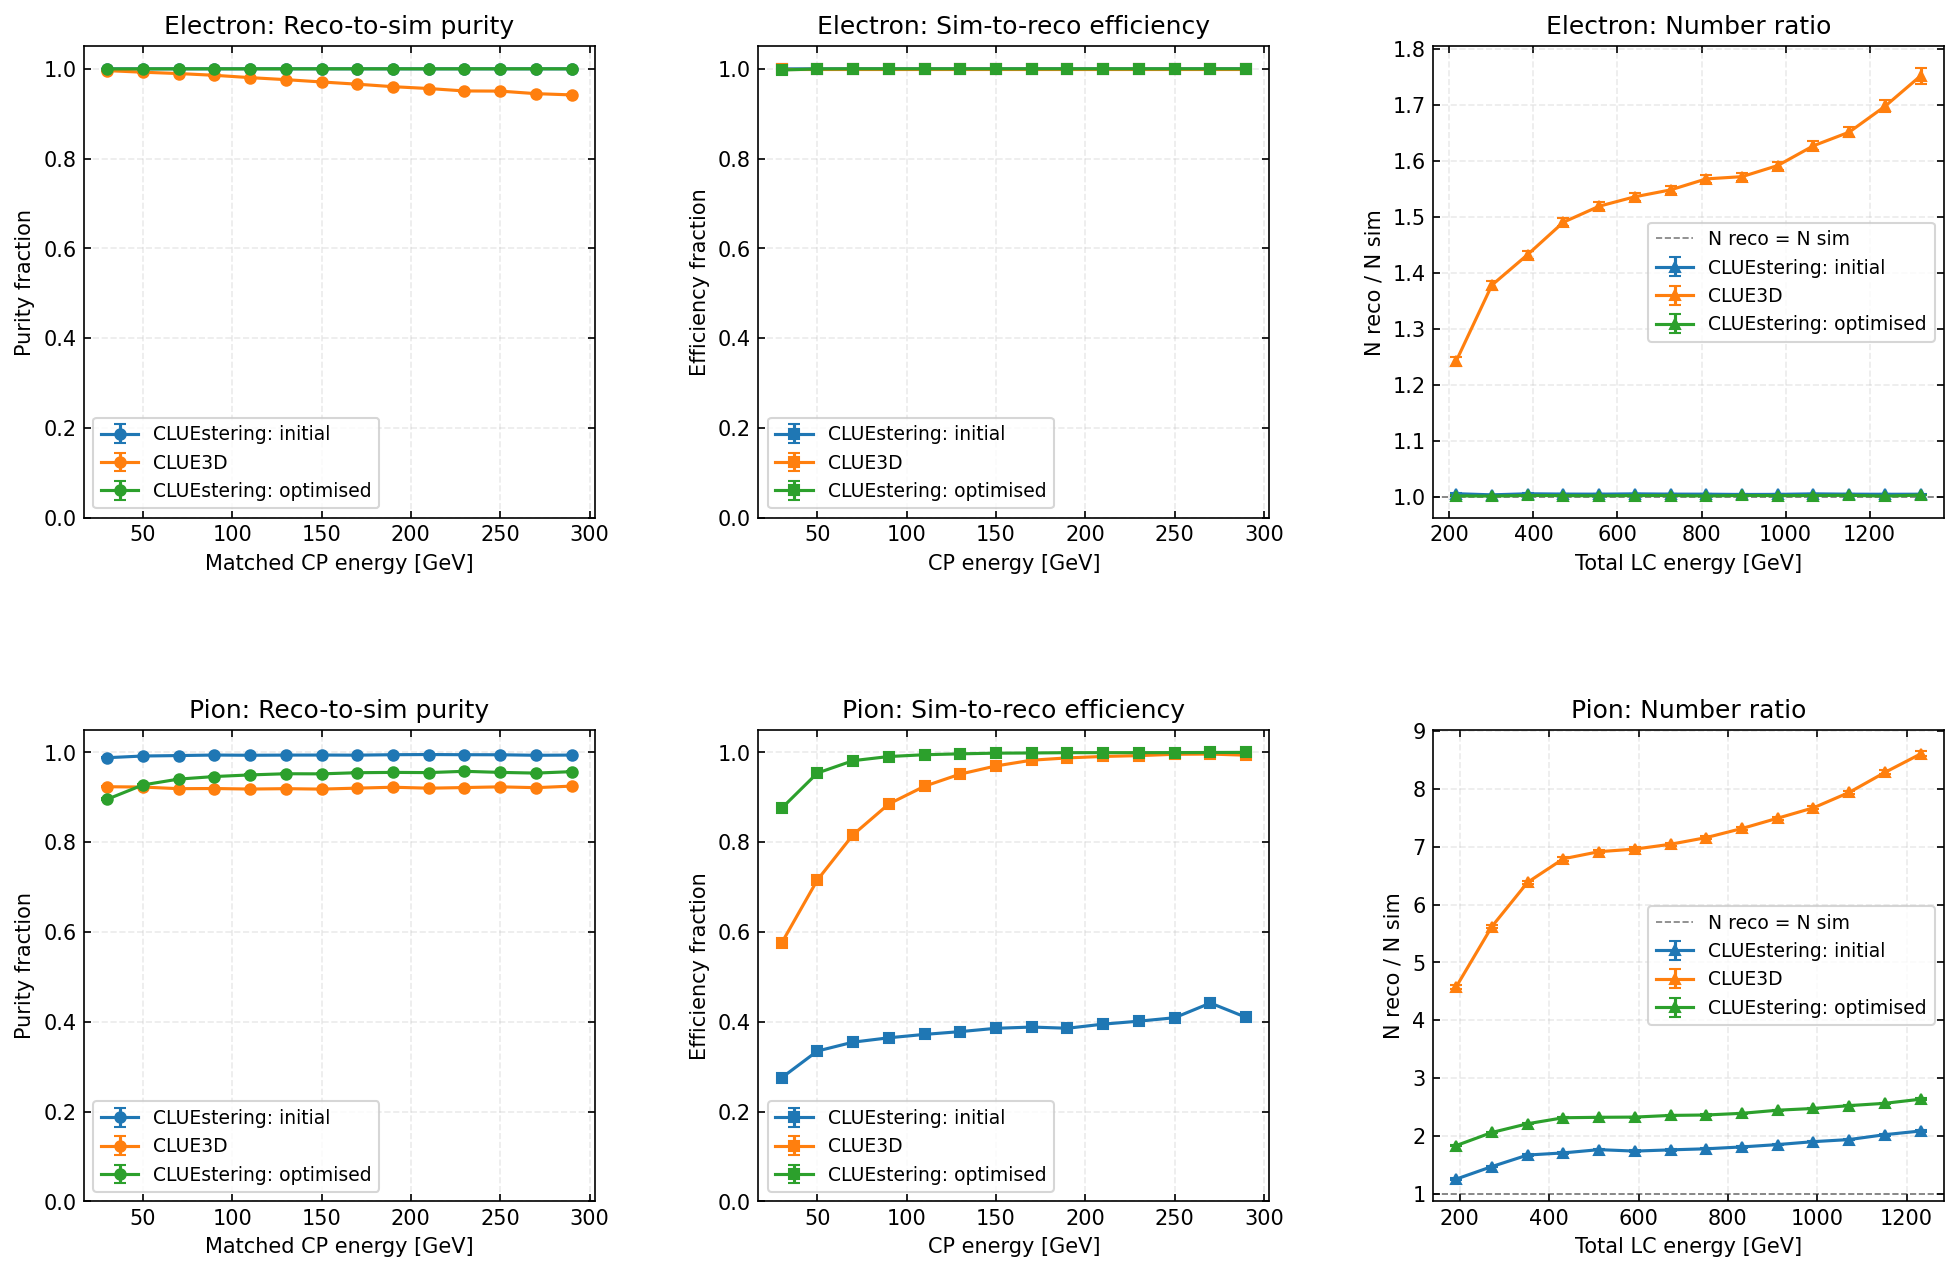
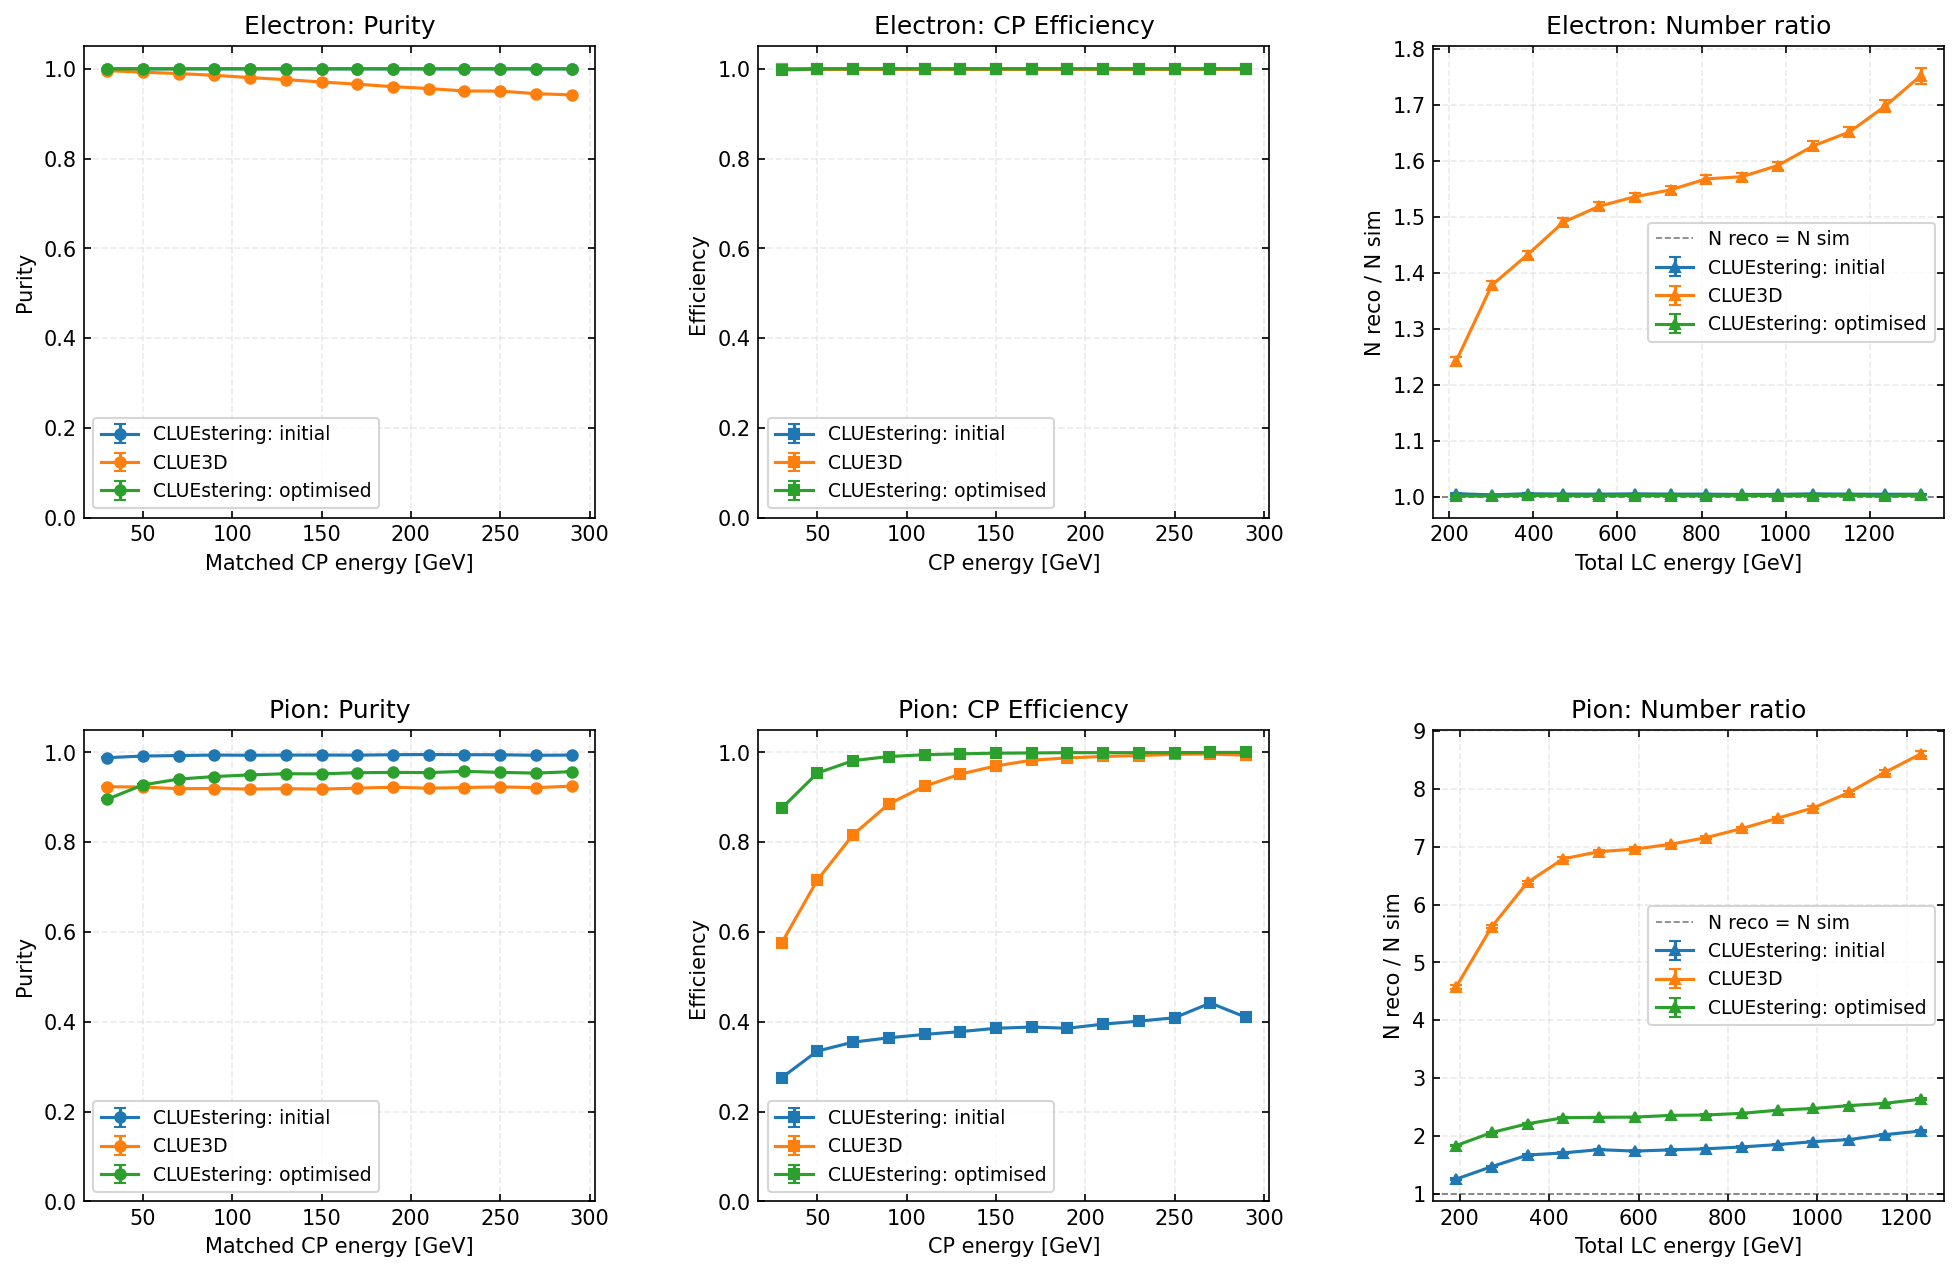
updated titles and labels

diff --git a/caloembed/scripts/plot_metrics.py b/caloembed/scripts/plot_metrics.py
@@ -93,8 +93,8 @@ def _plot_purity(ax, runs, bins, colors):
                     marker="o", markersize=5, capsize=3, linewidth=1.5)
 
     ax.set_xlabel("Matched CP energy [GeV]")
-    ax.set_ylabel("Purity fraction")
-    ax.set_title("Reco-to-sim purity")
+    ax.set_ylabel("Purity")
+    ax.set_title("Purity")
     ax.set_ylim(0, 1.05)
 
 
@@ -112,8 +112,8 @@ def _plot_efficiency(ax, runs, bins, colors):
                     marker="s", markersize=5, capsize=3, linewidth=1.5)
 
     ax.set_xlabel("CP energy [GeV]")
-    ax.set_ylabel("Efficiency fraction")
-    ax.set_title("Sim-to-reco efficiency")
+    ax.set_ylabel("Efficiency ")
+    ax.set_title("CP Efficiency")
     ax.set_ylim(0, 1.05)
 
 
